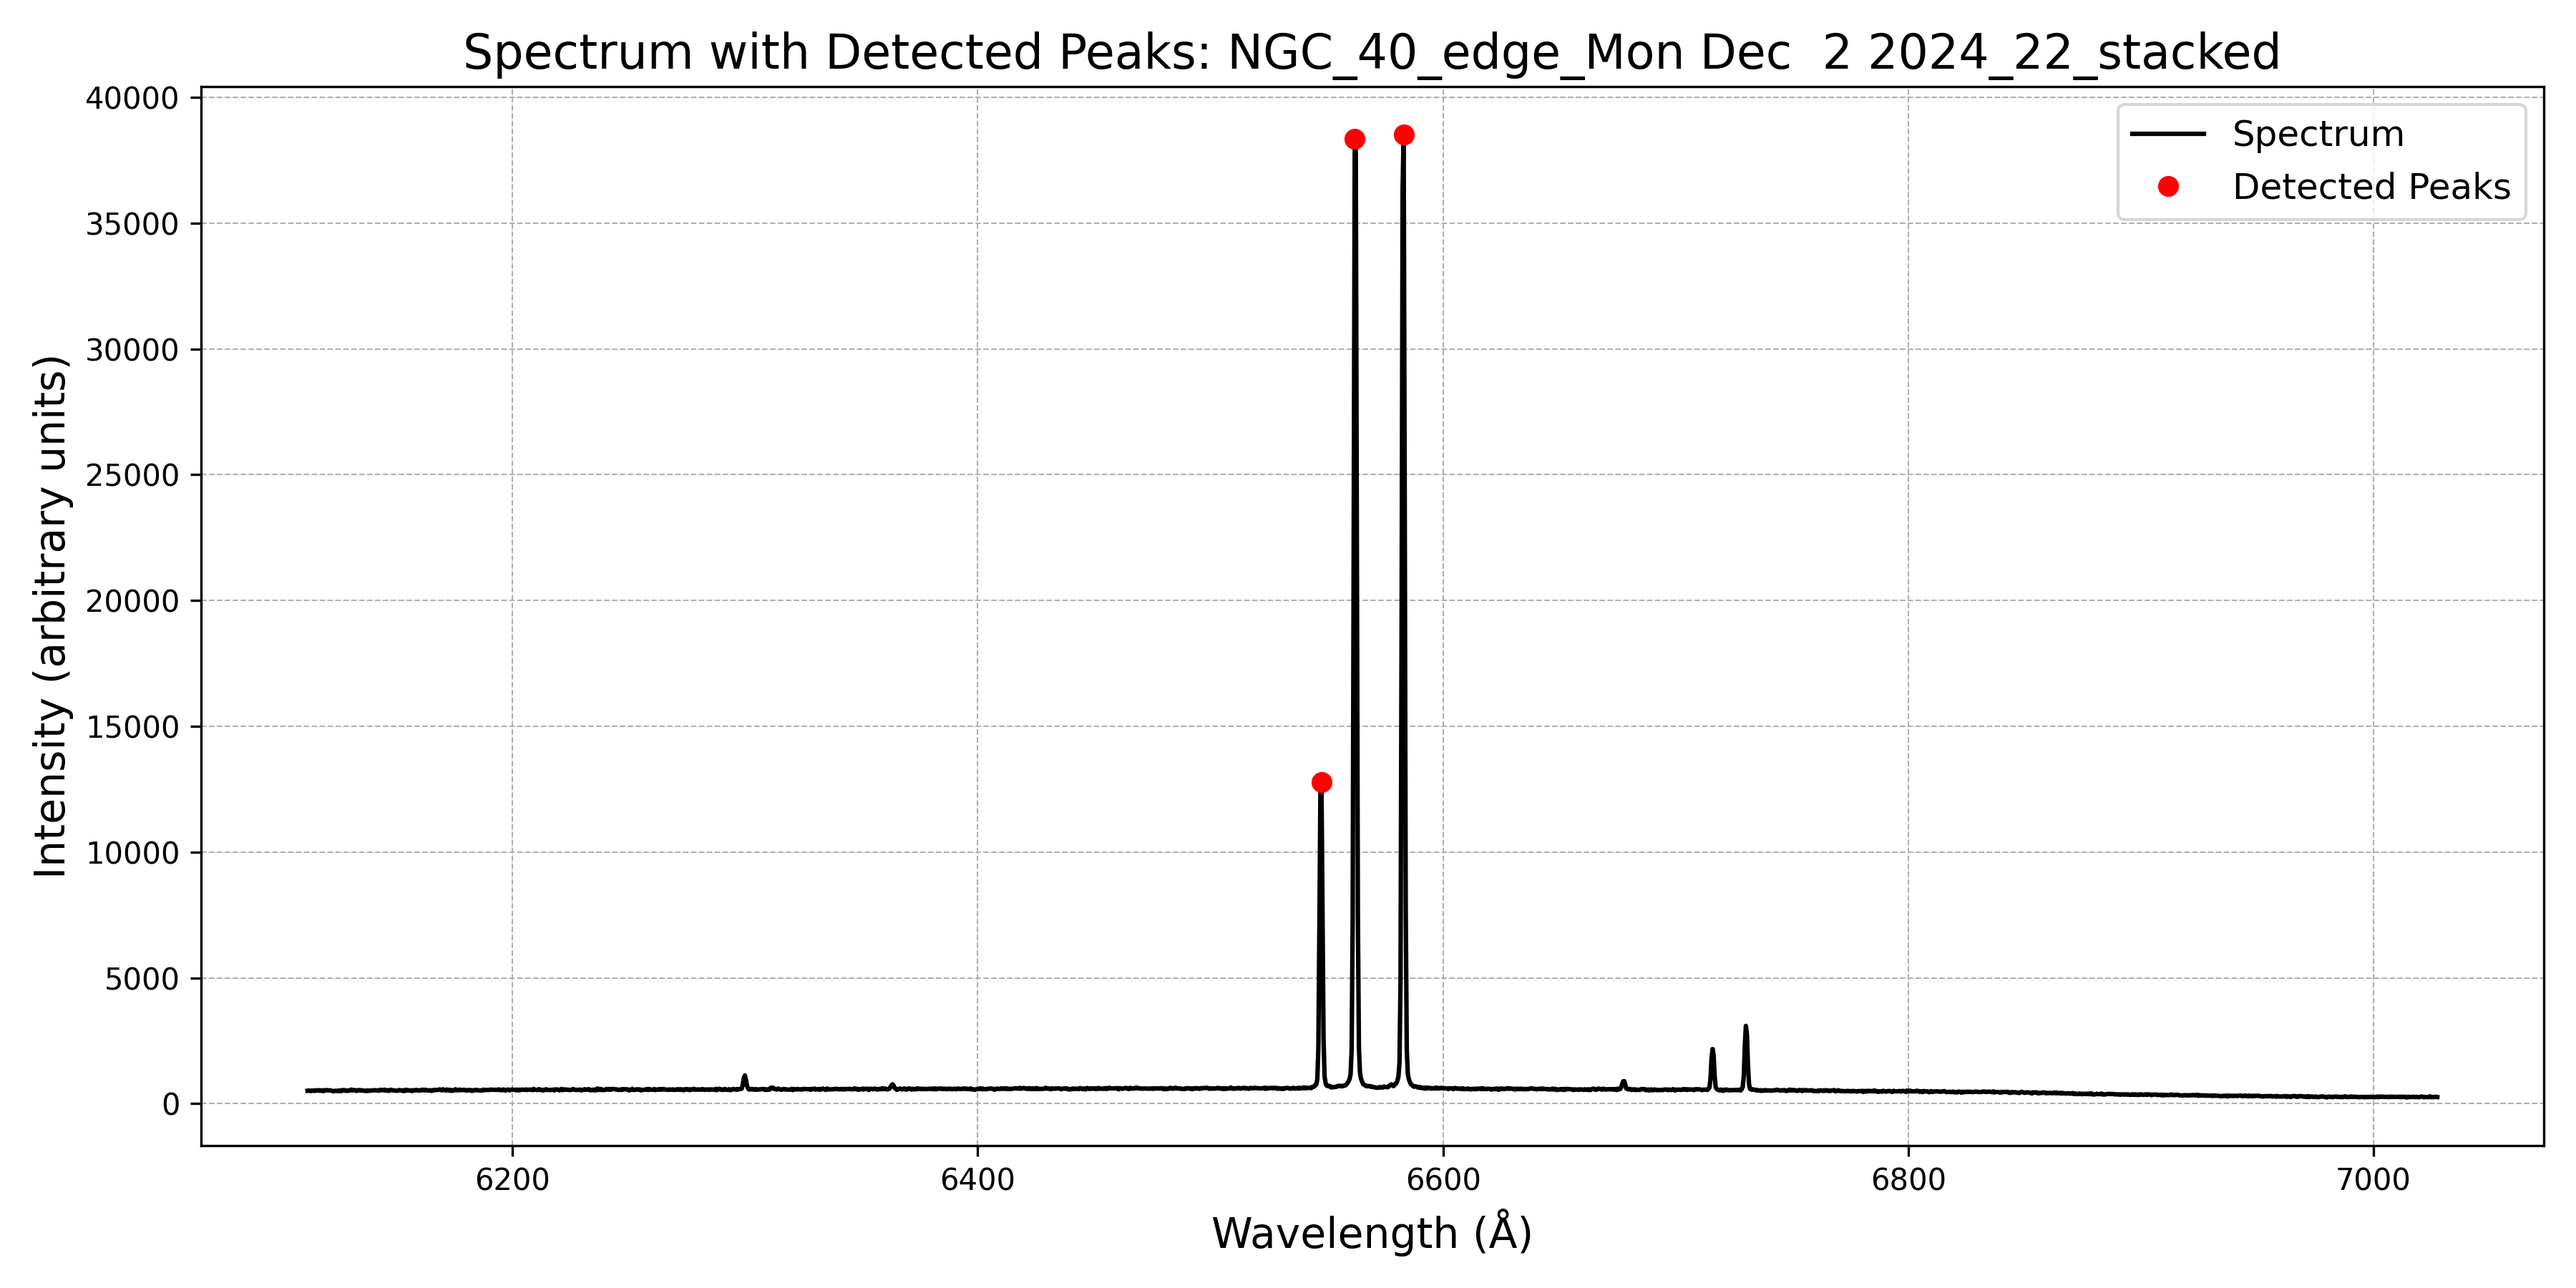
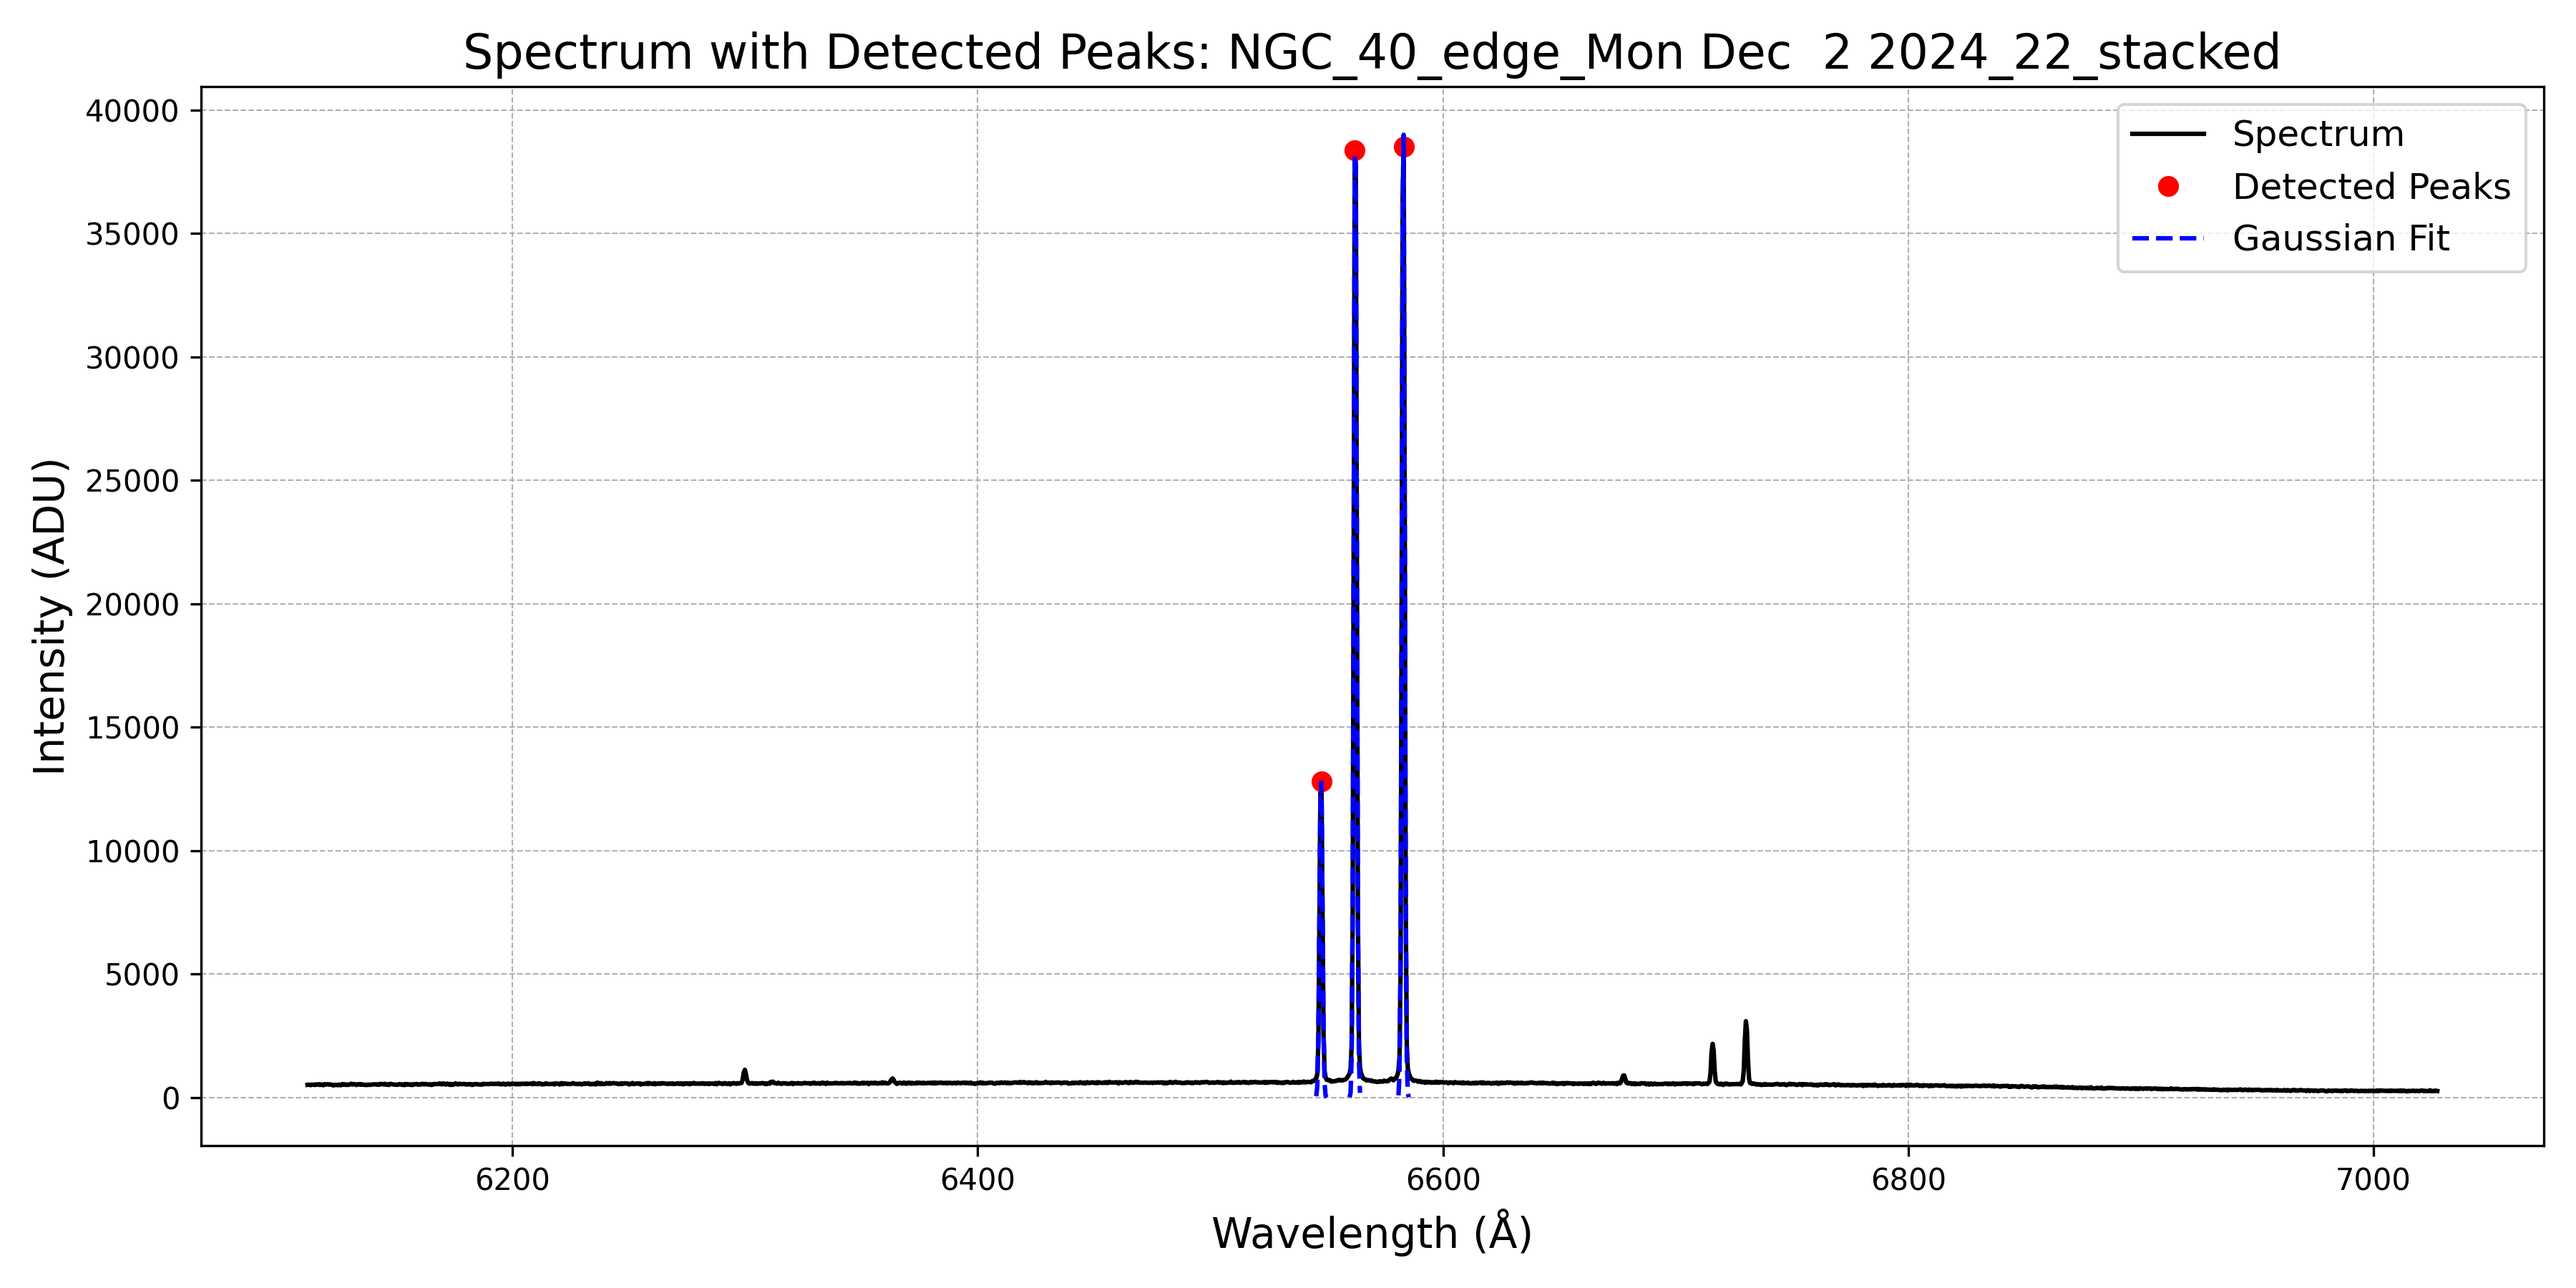
update peak assignment window size and enhance peak detection summary format

diff --git a/analyze.py b/analyze.py
@@ -2,20 +2,21 @@
 # -*- coding: utf-8 -*-
 
 """
-Analyze Stacked Spectra and Plot Peaks
+Analyze Stacked Spectra and Plot Peaks with Gaussian Fits
 
 Author: Bibal Sobeaux Pierre Gabriel
 Date: 2024-12-04
 
 This script scans the 'Reduced/stacked' directory for stacked FITS spectra,
-identifies peaks in each spectrum, and generates high-quality plots with
-wavelength calibration from a specified calibration file.
+identifies peaks in each spectrum, fits Gaussian profiles to each peak, and
+generates high-quality plots with wavelength calibration and Gaussian overlays.
 
 Usage:
     python analyze_stacked_spectra.py [--input_dir INPUT_DIR] [--output_dir OUTPUT_DIR]
                                      [--calibration_file CALIBRATION_FILE]
                                      [--height HEIGHT] [--distance DISTANCE]
-                                     [--prominence PROMINENCE] [--save_format SAVE_FORMAT]
+                                     [--prominence PROMINENCE] [--fitting_window FITTING_WINDOW]
+                                     [--save_format SAVE_FORMAT]
 
 Dependencies:
     - numpy
@@ -38,6 +39,7 @@ import glob
 import os
 import argparse
 from scipy.signal import find_peaks
+from scipy.optimize import curve_fit
 
 # ======================================================================
 # Helper Functions
@@ -118,22 +120,88 @@ def detect_peaks(wavelength, intensity, height, distance, prominence):
     peaks, properties = find_peaks(intensity, height=height, distance=distance, prominence=prominence)
     return peaks
 
-def plot_spectrum(wavelength, intensity, peaks, output_file, title=None):
+def gaussian(x, amplitude, mean, sigma):
     """
-    Plots the spectrum with identified peaks.
+    Gaussian function.
+
+    Parameters:
+        x (np.ndarray): Independent variable.
+        amplitude (float): Amplitude of the Gaussian.
+        mean (float): Mean of the Gaussian.
+        sigma (float): Standard deviation of the Gaussian.
+
+    Returns:
+        np.ndarray: Gaussian function evaluated at x.
+    """
+    return amplitude * np.exp(-0.5 * ((x - mean) / sigma) ** 2)
+
+def fit_gaussian(wavelength, intensity, peak_idx, window):
+    """
+    Fits a Gaussian to the data around a peak.
+
+    Parameters:
+        wavelength (np.ndarray): Wavelength array.
+        intensity (np.ndarray): Intensity array.
+        peak_idx (int): Index of the peak.
+        window (int): Number of pixels on each side of the peak to include in the fit.
+
+    Returns:
+        dict: Fit parameters (amplitude, mean, sigma) and fit success status.
+    """
+    # Define the fitting window
+    left = max(peak_idx - window, 0)
+    right = min(peak_idx + window + 1, len(intensity))
+    x_data = wavelength[left:right]
+    y_data = intensity[left:right]
+
+    # Initial guesses
+    amplitude_guess = intensity[peak_idx] - np.median(intensity)
+    mean_guess = wavelength[peak_idx]
+    if len(x_data) > 1:
+        delta_wavelength = wavelength[1] - wavelength[0]
+    else:
+        delta_wavelength = 1  # Prevent division by zero
+    sigma_guess = (delta_wavelength * window) / 2.355  # Approximate
+
+    try:
+        popt, _ = curve_fit(gaussian, x_data, y_data, p0=[amplitude_guess, mean_guess, sigma_guess])
+        fit_success = True
+    except RuntimeError:
+        popt = [np.nan, np.nan, np.nan]
+        fit_success = False
+
+    return {
+        'amplitude': popt[0],
+        'mean': popt[1],
+        'sigma': popt[2],
+        'success': fit_success,
+        'x_fit': x_data,
+        'y_fit': gaussian(x_data, *popt) if fit_success else None
+    }
+
+def plot_spectrum(wavelength, intensity, peaks, gaussian_fits, output_file, title=None):
+    """
+    Plots the spectrum with identified peaks and their Gaussian fits.
 
     Parameters:
         wavelength (np.ndarray): Wavelength array.
         intensity (np.ndarray): Intensity array.
         peaks (np.ndarray): Indices of detected peaks.
+        gaussian_fits (list of dict): List containing Gaussian fit parameters for each peak.
         output_file (str): Path to save the plot.
         title (str, optional): Title of the plot.
     """
     plt.figure(figsize=(12, 6))
     plt.plot(wavelength, intensity, label='Spectrum', color='black')
     plt.plot(wavelength[peaks], intensity[peaks], 'ro', label='Detected Peaks')
+
+    # Plot Gaussian fits
+    for fit in gaussian_fits:
+        if fit['success']:
+            plt.plot(fit['x_fit'], fit['y_fit'], 'b--', label='Gaussian Fit' if 'Gaussian Fit' not in plt.gca().get_legend_handles_labels()[1] else "")
+
     plt.xlabel('Wavelength (Å)', fontsize=14)
-    plt.ylabel('Intensity (arbitrary units)', fontsize=14)
+    plt.ylabel('Intensity (ADU)', fontsize=14)
     if title:
         plt.title(title, fontsize=16)
     plt.legend(fontsize=12)
@@ -152,25 +220,57 @@ def ensure_directory(directory):
     if not os.path.exists(directory):
         os.makedirs(directory)
 
+def format_peak_detail(peak, width=13):
+    """
+    Formats the peak detail for summary.
+
+    Parameters:
+        peak (dict): Dictionary containing peak details.
+        width (int): Width for formatting.
+
+    Returns:
+        str: Formatted peak detail string.
+    """
+    if not np.isnan(peak['wavelength']):
+        wavelength_str = f"{peak['wavelength']:.2f}".rjust(13)
+    else:
+        wavelength_str = "N/A".rjust(13)
+
+    if not np.isnan(peak['amplitude']):
+        amplitude_str = f"{peak['amplitude']:.2f}".rjust(9)
+    else:
+        amplitude_str = "N/A".rjust(9)
+
+    if not np.isnan(peak['sigma']):
+        sigma_str = f"{peak['sigma']:.2f}".rjust(9)
+    else:
+        sigma_str = "N/A".rjust(9)
+
+    fit_success_str = "Yes" if peak['fit_success'] else "No"
+
+    return f"  {peak['peak_index']:10d} | {wavelength_str} | {amplitude_str} | {sigma_str} | {fit_success_str}\n"
+
 # ======================================================================
 # Main Function
 # ======================================================================
 
 def main():
     # Argument Parser
-    parser = argparse.ArgumentParser(description="Analyze Stacked Spectra and Plot Peaks")
+    parser = argparse.ArgumentParser(description="Analyze Stacked Spectra and Plot Peaks with Gaussian Fits")
     parser.add_argument('--input_dir', type=str, default='reducing/Reduced/stacked',
                         help='Directory containing stacked FITS spectra (default: reducing/Reduced/stacked)')
     parser.add_argument('--output_dir', type=str, default='Reduced/stacked/plots',
                         help='Directory to save the plots (default: Reduced/stacked/plots)')
     parser.add_argument('--calibration_file', type=str, default='reducing/reduced/wavelength_calibration.dat',
                         help='Path to the wavelength calibration file (default: reducing/reduced/wavelength_calibration.dat)')
-    parser.add_argument('--height', type=float, default=5000,
-                        help='Minimum height of peaks for detection (default: 5000)')
+    parser.add_argument('--height', type=float, default=4000,
+                        help='Minimum height of peaks for detection (default: 4000)')
     parser.add_argument('--distance', type=float, default=10,
                         help='Minimum distance between peaks in pixels (default: 10)')
     parser.add_argument('--prominence', type=float, default=1000,
                         help='Minimum prominence of peaks (default: 1000)')
+    parser.add_argument('--fitting_window', type=int, default=5,
+                        help='Number of pixels on each side of a peak to include in Gaussian fit (default: 5)')
     parser.add_argument('--save_format', type=str, choices=['png', 'pdf'], default='png',
                         help='Format to save plots (default: png)')
     args = parser.parse_args()
@@ -181,6 +281,7 @@ def main():
     height = args.height
     distance = args.distance
     prominence = args.prominence
+    fitting_window = args.fitting_window
     save_format = args.save_format
 
     # Ensure output directory exists
@@ -214,19 +315,40 @@ def main():
             num_peaks = len(peaks)
             print(f"Detected {num_peaks} peaks.")
 
+            # Fit Gaussians to each peak
+            gaussian_fits = []
+            for peak_idx in peaks:
+                fit = fit_gaussian(wavelength, data, peak_idx, fitting_window)
+                gaussian_fits.append(fit)
+                if fit['success']:
+                    print(f"  Peak at index {peak_idx} fitted successfully: amplitude={fit['amplitude']:.2f}, mean={fit['mean']:.2f} Å, sigma={fit['sigma']:.2f} Å")
+                else:
+                    print(f"  Peak at index {peak_idx} fit failed.")
+
             # Plotting
             base_name = os.path.splitext(os.path.basename(fits_file))[0]
             plot_filename = os.path.join(output_dir, f"{base_name}_peaks.{save_format}")
             title = f"Spectrum with Detected Peaks: {base_name}"
-            plot_spectrum(wavelength, data, peaks, plot_filename, title=title)
+            plot_spectrum(wavelength, data, peaks, gaussian_fits, plot_filename, title=title)
             print(f"Plot saved to {plot_filename}")
 
             # Append to summary
-            peak_wavelengths = wavelength[peaks]
+            peak_details = []
+            for idx, peak_idx in enumerate(peaks):
+                fit = gaussian_fits[idx]
+                peak_info = {
+                    'peak_index': int(peak_idx),
+                    'wavelength': fit['mean'] if fit['success'] else np.nan,
+                    'amplitude': fit['amplitude'] if fit['success'] else np.nan,
+                    'sigma': fit['sigma'] if fit['success'] else np.nan,
+                    'fit_success': fit['success']
+                }
+                peak_details.append(peak_info)
+
             summary.append({
                 'file': os.path.basename(fits_file),
                 'num_peaks': num_peaks,
-                'peak_wavelengths': peak_wavelengths
+                'peaks': peak_details
             })
 
         except Exception as e:
@@ -237,16 +359,19 @@ def main():
     summary_file = os.path.join(output_dir, 'peak_summary.txt')
     try:
         with open(summary_file, 'w') as f:
-            f.write("Peak Detection Summary\n")
-            f.write("======================\n\n")
+            f.write("Peak Detection and Gaussian Fit Summary\n")
+            f.write("=======================================\n\n")
             for entry in summary:
                 f.write(f"File: {entry['file']}\n")
                 f.write(f"Number of Peaks Detected: {entry['num_peaks']}\n")
-                f.write("Peak Wavelengths (Å):\n")
-                for wl in entry['peak_wavelengths']:
-                    f.write(f"  {wl:.2f}\n")
+                f.write("Peak Details:\n")
+                f.write("  Peak Index | Wavelength (Å) | Amplitude | Sigma (Å) | Fit Success\n")
+                for peak in entry['peaks']:
+                    # Use the helper function to format each peak detail
+                    peak_detail_str = format_peak_detail(peak)
+                    f.write(peak_detail_str)
                 f.write("\n")
-        print(f"Summary of peak detections saved to {summary_file}")
+        print(f"Summary of peak detections and Gaussian fits saved to {summary_file}")
     except Exception as e:
         print(f"Error writing summary file: {e}")
 

diff --git a/reducing/spectrum_reduction.py b/reducing/spectrum_reduction.py
@@ -571,7 +571,7 @@ class PeakAssignmentWindow(tk.Toplevel):
         screen_height = self.winfo_screenheight()
         # Set window size to 80% of screen dimensions
         window_width = int(screen_width * 0.7)
-        window_height = int(screen_height * 0.9)
+        window_height = int(screen_height * 1)
         self.geometry(f"{window_width}x{window_height}")
 
         self.protocol("WM_DELETE_WINDOW", self.on_close)
@@ -585,7 +585,7 @@ class PeakAssignmentWindow(tk.Toplevel):
         self.prefilled_pairs = prefilled_pairs.copy() if prefilled_pairs else []
 
         # Create matplotlib figure
-        self.fig = plt.Figure(figsize=(10, 5), dpi=100)
+        self.fig = plt.Figure(figsize=(10, 4), dpi=100)
         self.ax = self.fig.add_subplot(111)
         self.ax.plot(self.xaxis, self.data, label='ThAr Spectrum')
         self.ax.plot(self.allcens, self.data[self.allcens.astype(int)], 'ro', label='Detected Peaks')
